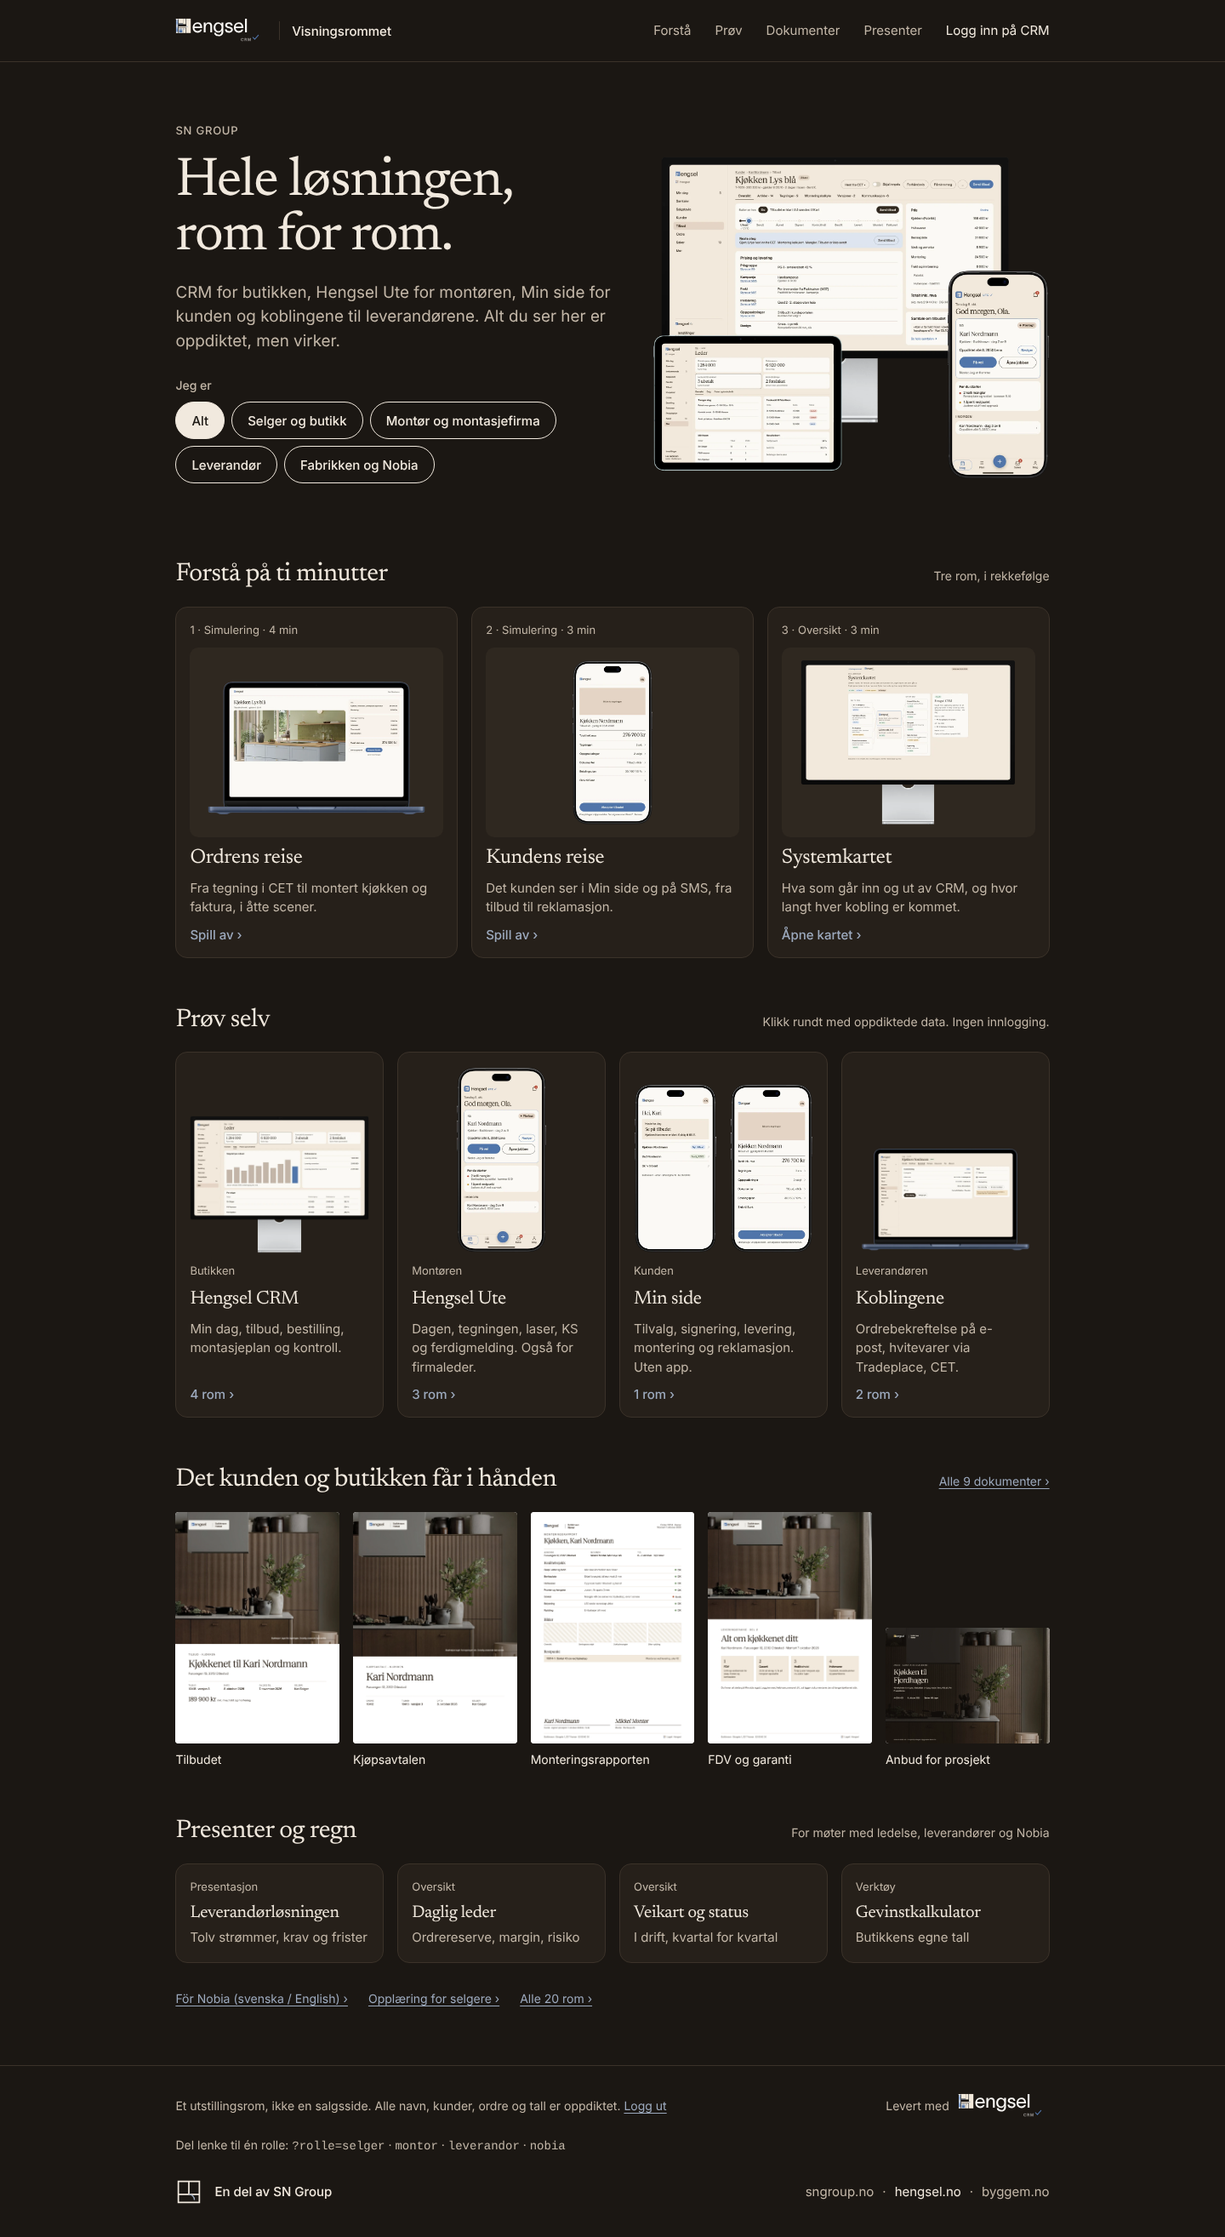
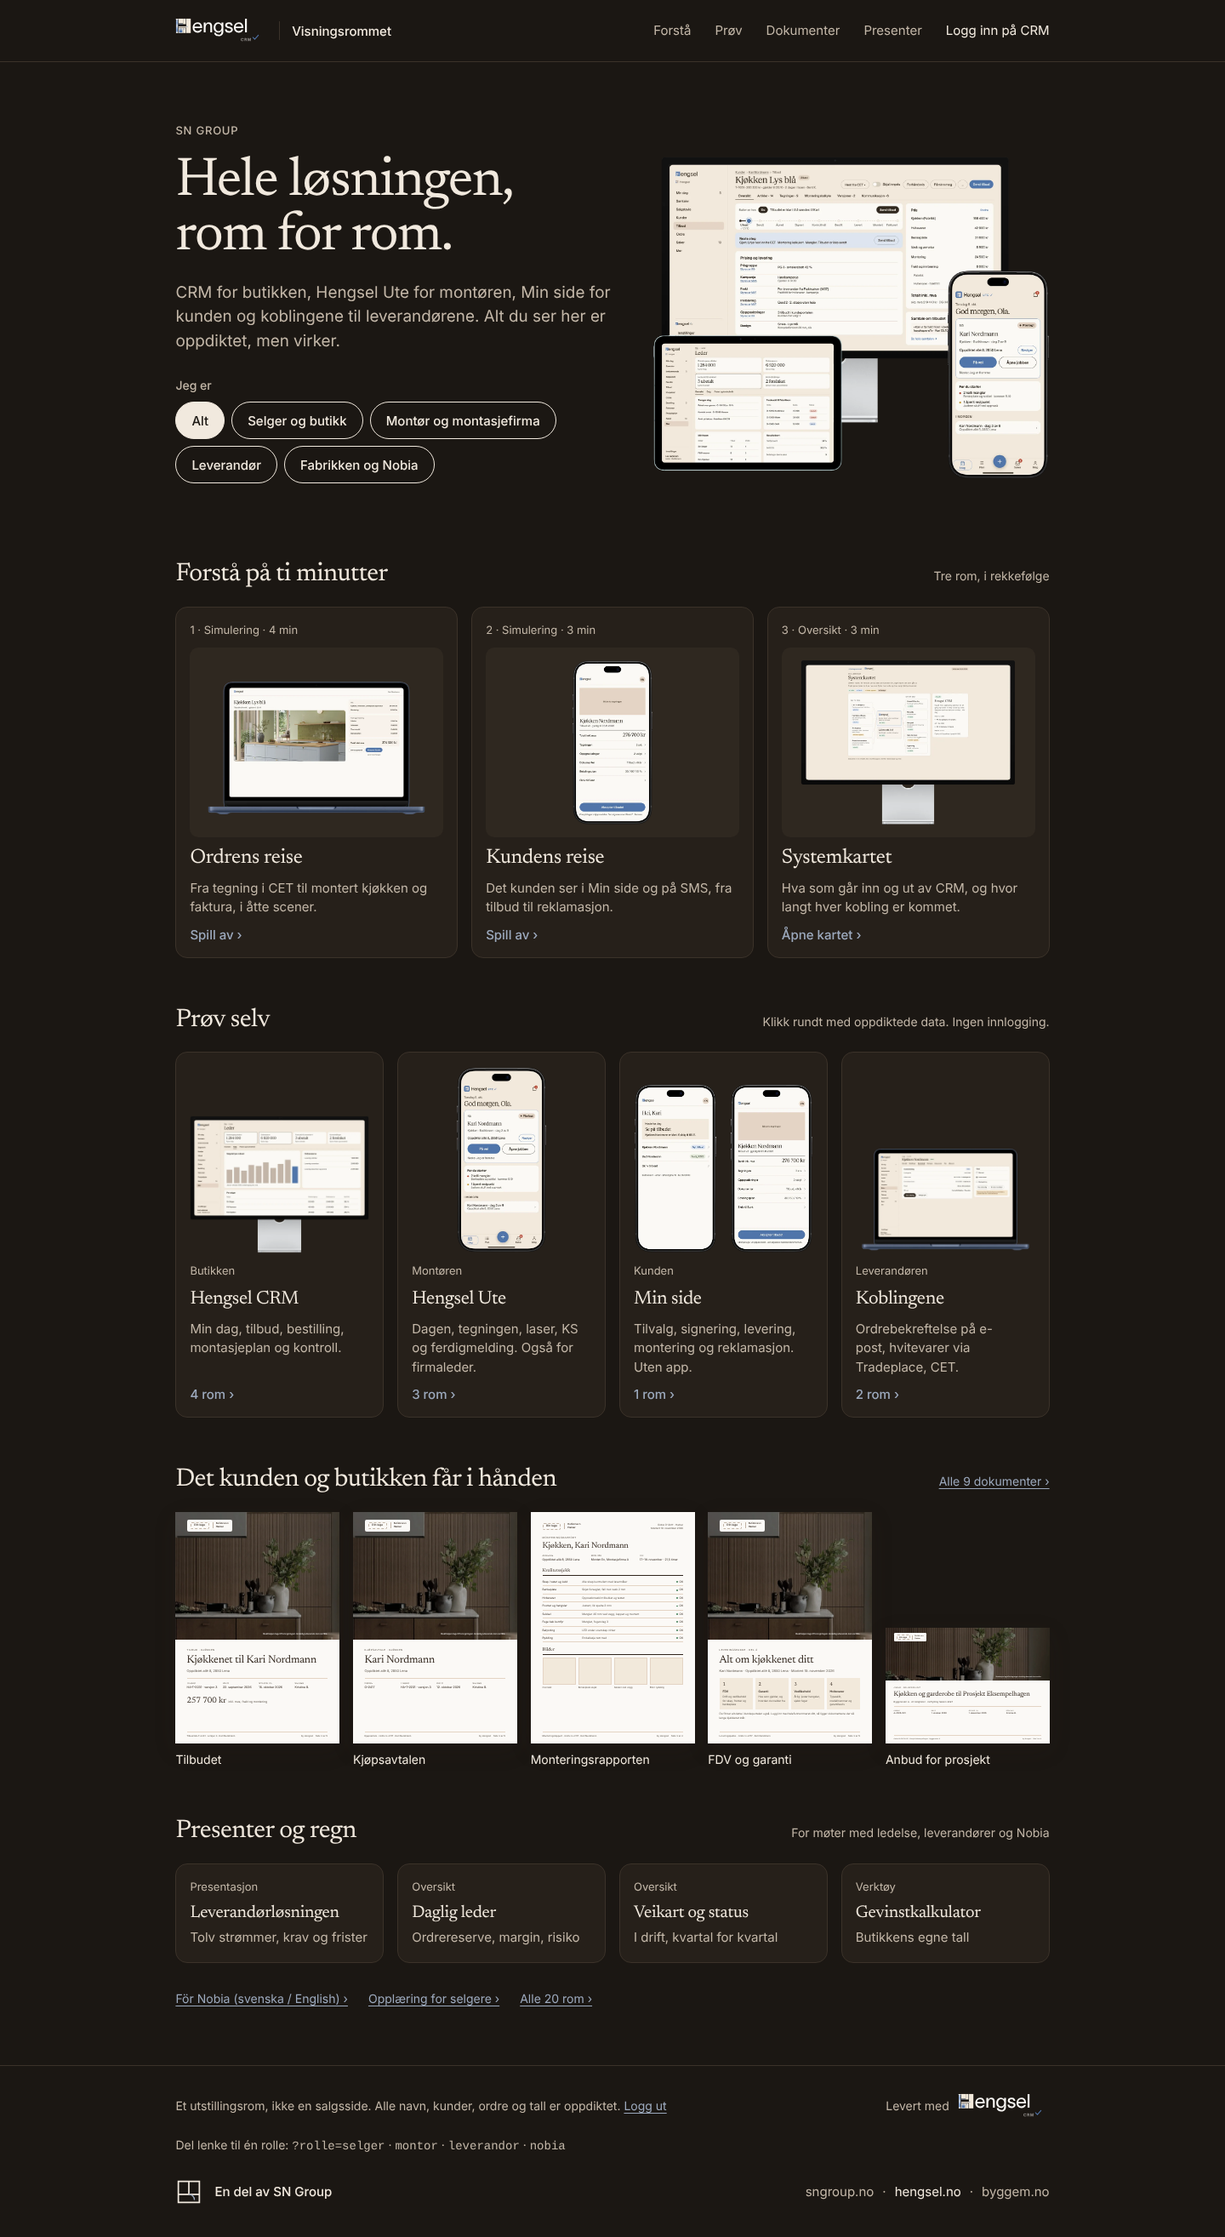
K-161: tester for dokumentdata, sjekker for bla/sveip/lysboks/kontrast/CLS, hidden-rettelse, dokumentasjon, skjermbilder
Claude-Session: https://claude.ai/code/session_01RrCZRhYJeFEH4kX3GLZixf

Changed region(s): [[0.125, 0.655, 0.875, 0.7798]]

diff --git a/packages/design/src/dokumenter/dokumentvisning.css b/packages/design/src/dokumenter/dokumentvisning.css
@@ -15,6 +15,7 @@
 .dv-fane:hover { border-color: var(--ink); }
 .dv-fane[aria-selected="true"] { background: var(--ink); border-color: var(--ink); color: var(--bg); }
 
+.dv-panel[hidden] { display: none; }
 .dv-panel { display: flex; flex-direction: column; gap: 28px; min-width: 0; }
 .dv-lages { background: var(--surface-highlight); border-radius: 14px; padding: 16px 18px; display: flex; flex-direction: column; gap: 10px; }
 .dv-steg { list-style: none; margin: 0; padding: 0; display: grid; grid-template-columns: repeat(auto-fit, minmax(150px, 1fr)); gap: 8px; }

diff --git a/docs/dokumentvisning.md b/docs/dokumentvisning.md
@@ -1,40 +1,48 @@
-# Dokumentvisning: gjenbruk i Visningsrommet (K-161)
+# Dokumentvisning: felles for hengsel.no og Visningsrommet (K-160, K-161)
 
-Visningen på hengsel.no/dokumenter er bygd for å kunne brukes en gang til. Dataene er atskilt fra visningen, og visningen tar dataene som parameter.
+Dokumentene vises på to steder: hengsel.no/dokumenter (Astro) og vis.hengsel.no/dokumenter (ren HTML, `sites/vis`). Begge leser **samme datafil**, så et dokument endres bare ett sted.
 
-## Filene (alle i `sites/hengsel/src/`)
+## Filene (`packages/design/src/dokumenter/`)
 
-| Fil | Hva | Avhengigheter |
+| Fil | Hva |
+|---|---|
+| `data.js` + `data.d.ts` | De ni dokumentene (`DOKUMENTER`), `LAGES_STEG`, `A4`, typene (`Dokument`, `DokSide`, `Blokk` …). Ren data, ingen Astro eller DOM. |
+| `lages.js` + `lages.d.ts` | «Slik lages det» per dokument i Visningsrommet: 3–5 steg (tittel, tekst, knappen som trykkes, skjermbilde fra CRM-designfilene), hva som skjer etterpå (PDF, e-post, SMS, signering, lagring) og lenker til rommene. |
+| `render.js` + `render.d.ts` | `renderA4Side(side, { fot, nr, total, ligg, forst })` gir HTML for én A4-side. Brukes av begge stedene. Alle tekster escapes. |
+| `a4-stil.js` + `.d.ts` | `a4DynamiskCss(dokumenter)`, `malKlasse`, `hhKlasse`: kolonnemaler og bildehøyder som klasser. |
+| `a4.css` | A4-papiret. Skalerer med bredden uten skript (container-enheter, `--u` = én designpiksel). Papiret er alltid lyst. |
+| `dokumentvisning.css` | Velger, stripe, bla-knapper, innholdsliste, lysboks. Trenger variablene `--bg --surface --surface-soft --surface-highlight --line --ink --muted --accent --f-display --f-body`. |
+| `dokumentvisning.js` | Faner, bla (knapper, ← →, sveip), innholdsliste, lysboks, `#id` i adressen (når `data-hash` står på `[data-dokvisning]`). Vanlig JavaScript. |
+
+Pakken eksporterer dem som `@sngroup/design/dokumenter/data`, `…/render`, `…/a4-stil`, `…/lages`, `…/a4.css`, `…/dokumentvisning.css` og `…/dokumentvisning`.
+
+## hengsel.no
+
+`sites/hengsel/src/content/dokumenter-data.ts` re-eksporterer `data.js`. `A4Side.astro` kaller `renderA4Side` (`set:html`), `Dokumentpanel.astro` og `Dokumentvisning.astro` lager panelene (første dokument i DOM, resten i `<template>`), og Astro bundler skriptet og CSS-en fra pakken.
+
+## Visningsrommet (`sites/vis`)
+
+`bygg.mjs` kopierer `a4.css`, `dokumentvisning.css` og `dokumentvisning.js` til `dist/assets/dokumenter/` og forsidebildet `dok-forside.webp` (fra `sites/hengsel/public/img`) til `dist/img/`. `sites/vis/dokumenter.mjs` lager HTML av de felles dataene og `bygg.mjs` setter den inn der markørene står:
+
+| Markør | Gir | Brukes i |
 |---|---|---|
-| `content/dokumenter-data.ts` | De ni dokumentene (`DOKUMENTER`), typene (`Dokument`, `DokSide`, `Blokk` …), `LAGES_STEG`, `A4` | Ingen. Ren TS, ingen Astro eller DOM. |
-| `components/dokumenter/a4-stil.ts` | `a4DynamiskCss(dokumenter)`, `malKlasse`, `hhKlasse` | Ren TS |
-| `components/dokumenter/A4Side.astro` | Én A4-side, stående eller liggende, alle sidetyper | Astro |
-| `components/dokumenter/Dokumentpanel.astro` | Ett dokument: «Slik lages det», arket, bla-knapper, innholdsliste | Astro |
-| `components/dokumenter/Dokumentvisning.astro` | Velger, paneler (første ferdig, resten i `<template>`), lysboks (`<dialog>`) | Astro |
-| `scripts/dokumentvisning.ts` | Faner, bla, innholdsliste, lysboks, fokusfelle | Ingen (vanlig TS) |
-| `styles/a4.css` | A4-papiret. Skalerer med bredden uten skript (container-enheter, `--u` = én designpiksel) | Ingen |
-| `styles/dokumentvisning.css` | Velger, stripe, bla-knapper, innholdsliste, lysboks | Variablene `--bg --surface --surface-soft --surface-highlight --line --ink --muted --accent --f-display --f-body` |
+| `<!--dokumentvisning-->` | Velger, ni dokumenter med ark og bla-knapper, «Slik lages det» | `src/dokumenter/index.html` |
+| `<!--a4-stil-->` | `<style>` med kolonnemaler og bildehøyder | alle sider som viser A4 |
+| `<!--a4-ark:id:side:Tittel-->` | Ett lite ark som lenke til `/dokumenter/#id` | forsiden |
 
-Forsidebildet er `public/img/dok-forside.webp` (1200 × 768), hentet fra `/img/dok-forside.webp`. Skriftene hentes fra `--a4-skrift` og `--a4-overskrift`, med «Inter Variable»/«Inter» og «Newsreader Variable»/«Newsreader» som reserve (Visningsrommet bruker «Inter» og «Newsreader», så det virker uten endring).
+Det finnes ingen dokumentbilder (`dok-*.webp` er fjernet). Romkortet `src/img/rom-dokumenter.webp` lages av `npm run rammer:vis` fra en gjengitt tilbudsforside (krever `npm run build -w sites/vis` først).
 
-## Dataene
+Lenker til et dokument: `/dokumenter/#tilbud`, `#kjopsavtale`, `#ob`, `#anbud`, `#montering`, `#punkt`, `#fdv`, `#plan`, `#faktura`.
 
-`DOKUMENTER` er en vanlig liste og kan serialiseres: `JSON.stringify(DOKUMENTER)` (typene er bare TS og forsvinner). Et dokument har `id`, `t`, `s`, `fot`, `lages` (fem tekster), `ligg` (liggende) og `sider`. En side har enten `forside`, `todelt` eller `blokker`; blokkene er en union på `type` (se `Blokk`). Under bygging kan andre byggetrinn importere filen direkte (`import { DOKUMENTER } from ".../dokumenter-data.ts"` via esbuild/tsx/Astro) eller lese en JSON-utgave. Teksten er oppdiktet eksempelinnhold og vises med «Eksempel»-merking; nytt innhold skal ikke nevne merkenavn.
+## Endre eller legge til et dokument
 
-## Slik brukes visningen
+1. Rediger `data.js` (side, blokk eller tekst). Begge stedene følger med ved neste bygg.
+2. Legg til `LAGES.<id>` i `lages.js` (3–5 steg, skjermbilder fra `sites/vis/src/skjermbilder`). `scripts/dokumenter.test.mjs` feiler om et dokument mangler «Slik lages det», om et skjermbilde ikke finnes, eller om et merkenavn dukker opp.
+3. Bruk nøytrale demonavn (Butikknavn, Kari Nordmann, Leverandør A). «Din logo» øverst og «by Hengsel» i bunnlinjen, aldri to Hengsel-logoer.
 
-I en Astro-side: `<Dokumentvisning dokumenter={DOKUMENTER} />` (eller et utvalg). Komponenten importerer selv CSS-en og laster skriptet (Astro bundler `<script>`). Siden må ha variablene over; i `sites/hengsel` kommer de fra `styles/hengsel.css` og `tokens.css`. CSP: ingen `style`-attributter eller innebygde skript brukes. Kolonnemalene i tabellene ligger i én `<style>` fra `a4DynamiskCss()` (hashes av `scripts/csp-hasher.mjs` i hengsel; Visningsrommet må tillate eller hashe den).
+## Tilgjengelighet og ytelse
 
-## Hva som må til for at `sites/vis` (ren HTML uten Astro) kan bruke den
-
-Markup lages av Astro-komponentene, så det trengs ett mellomledd. Valgene, enklest først:
-
-1. **Fragment fra hengsel-bygget.** Legg en Astro-side (eller endepunkt) i `sites/hengsel` som bare gir `<Dokumentvisning dokumenter={DOKUMENTER} />` som HTML-fragment (uten meny og bunn), og la `sites/vis/bygg.mjs` sette fragmentet inn der det står en markør (som den allerede gjør med `<!--hengsel-logo N-->`). Kopier `_astro/*.css` og `_astro/Dokumentvisning*.js` fra `sites/hengsel/dist` til `dist/` i vis og lenk dem. Bygg hengsel først (rekkefølgen i rot-skriptet).
-2. **Astro Container API** (`experimental_AstroContainer`) i et eget byggetrinn som rendrer `Dokumentvisning.astro` til en streng. Ikke prøvd.
-3. **Egen gjengiver i ren JS** over de samme dataene. Klassene i `a4.css` og `dokumentvisning.css` og `data-*`-attributtene i `scripts/dokumentvisning.ts` er kontrakten; skriptet og stilene kan brukes uendret. Mest arbeid (A4Side er ca. 150 linjer markup).
-
-Uansett: skriptet og de to CSS-filene kan gjenbrukes som de er (`esbuild --bundle --minify scripts/dokumentvisning.ts`), og Visningsrommets CSP må tillate egne skript og stil fra samme opprinnelse. Visningsrommets dokumentmaler (`sites/vis/src/dokumenter/*.webp`) er forbildet og kan beholdes som forhåndsbilder til de ni dokumentene.
-
-## Lysboksen (tilgjengelighet)
-
-`<dialog>` med `showModal()` (resten av siden er inert), egen fokusfelle, Esc lukker, ← og → blar, `aria-label` «Åpne siden i lysboksen», «Forrige side», «Neste side», «Lukk» og «Dokumenter» (fanelisten). Fokus går tilbake til knappen som åpnet den. På telefon (under 700 px) vises arket i lesbar størrelse og kan rulles, knappene ligger under.
+- Arket (`[data-ark]`) har `tabindex="0"`; ← og → blar når arket eller knappene har fokus. Sveip til sidene på berøringsskjerm (også i lysboksen). Teller «Side 2 av 6» (`aria-live`).
+- Lysboksen er en modal `<dialog>` (`showModal()`, inert bakgrunn), egen fokusfelle, Esc lukker, fokus går tilbake til knappen som åpnet den. På telefon (under 700 px) vises arket i lesbar størrelse og kan rulles.
+- Bare det første dokumentet ligger i DOM-en; de andre i `<template>`. Alle sider unntatt den viste er `hidden`, og forsidebildene er `loading="lazy"`. Bilder har `width` og `height` (CLS 0).
+- `scripts/skjermbilder-vis.mjs` sjekker bla med tastatur og sveip, lazy-lasting, bilder uten mål eller alt, lysboks, CLS og kontrast (4,5:1) på `/dokumenter/` på 390 og 1280 px, lys og mørk.

diff --git a/sites/vis/README.md b/sites/vis/README.md
@@ -36,13 +36,23 @@ Alle skjermbilder vises i Apples Product Bezels (`src/assets/rammer/*.webp`, gje
 | MacBook | `macbook.webp` (2400/1565) | 12.63 · 14.19 · 74.75 · 71.63 | 1 % / 1.4 % | 2408 × 1506 |
 
 - Rammene er minst 200 px høye, også på mobil (de faller ikke lenger bort). Tekst står ved siden av, ikke oppå. Flere enheter sammen i riktig størrelsesforhold (hero: telefonen er ca. 40 % av Studio Display-rammens høyde).
-- Romkort og flater på forsiden er ferdige bilder (`scripts/lib/rammer.mjs`): `npm run rammer:vis` (rom og flater med skjermbilder fra designfilene) og `npm run skjermbilder:vis` (rom uten: rommet selv i Studio Display). Kortbildet er 4:3 i `--soft` og viser hele enheten (3 kort i bredden på PC, 2 på iPad, 1 på mobil); flatene «Slik henger det sammen» er 2 i bredden. Dokumentene (`/dokumenter/`) er A4-ark uten ramme.
+- Romkort og flater på forsiden er ferdige bilder (`scripts/lib/rammer.mjs`): `npm run rammer:vis` (rom og flater med skjermbilder fra designfilene) og `npm run skjermbilder:vis` (rom uten: rommet selv i Studio Display). Kortbildet er 4:3 i `--soft` og viser hele enheten (3 kort i bredden på PC, 2 på iPad, 1 på mobil); flatene «Slik henger det sammen» er 2 i bredden. Dokumentene (`/dokumenter/`) er A4-ark uten ramme (gjengitt fra datafila, se «Dokumentene (K-161)»).
 - Pakke v3 (11.10, `delt/pakke-v3` på grenen `pakke-v3`) erstatter v1 og v2: `pc/` (2880 × 1800, brukes i både Studio Display og MacBook, så MacBook-bildene har ikke lenger prefikset `mb-`), `ios/` (iPhone 1206 × 2622 uten statuslinje, `ute-typeskilt` er 1170 × 2532) og `crm-ipad-*` (2360 × 1640, 1,44:1). Bildene som ikke er med i v3 (`crm-tilbud-kunde`, `crm-ordre-kontrollmal`, `crm-moduler`, `crm-mal-skisser`, `portal-*`, `crm-tlf-*`, `ute-ipad-*`) er fra v2 eller forrige eksport. Pakke v4 (11.10, `delt/pakke-v4`) erstatter `crm-tilbud`, `crm-tilbud-kunde`, `crm-ordre-kontrollmal` og `portal-tilbud` og legger til `kundeportal-pc`, `portal-levering` (K10), `portal-montering` (K12), `portal-fdv` (K14) og `ute-ipad-bildeverktoy` (2360 × 1640). De gamle portalbildene (`portal-*` på PC og `portal-tlf-*`) og `kundeportal-k04` (= `portal-tilbud`) er fjernet, og `crm-montasje` (v3, viser kontrollmål) er ikke brukt. Pakke v5 (11.10, `delt/pakke-v5`) legger til `crm-montasje` (Mer › Montasje › Montasjeplan, uke 42), `ute-i-dag` og `ute-ks` (Kari Nordmann og Ola, hele logoen, uten den buede streken). Det gamle v3-bildet av `crm-montasje` (kontrollmål) er erstattet. Andre ute-bilder fra fil 36 (`ute-jobb-under`, `ute-laser`, `ute-punkter`, `ute-punktkort`, `ute-avvik`, `ute-ferdig`, `ute-ks-kamera`, `ute-typeskilt`) kan ha de gamle navnene. Pakke v6 (11.10, `delt/pakke-v6`) gir egne bilder til rammene: `display/` (2560 × 1440, 16:9) til Studio Display (`ipad13/` er for iPad Air 13″ og brukes ikke). `ipad-liggende.png` er en iPad Air 11″-ramme (hull 2160 × 1502, 1,44:1), så iPad-bildene er de på 2360 × 1640: `crm-ipad-*` fra v3 og `ute-ipad-bildeverktoy` fra v4. `display/` erstatter pc/-bildene med samme navn i Studio Display. `pc/` (16:10) gjelder bare MacBook; de to MacBook-bildene som brukes (forside, Leverandøren) ligger som `mb-crm-ordre-kontrollmal` og `mb-crm-tilbud-kunde`. Alle bildene fyller skjermhullet med `object-fit:cover; object-position:top`, uten annen tilpasning. Uten v6-versjon (16:10 i Studio Display, bunnen beskjæres): `crm-moduler` og `crm-mal-skisser`. Pakke v7 (11.10, `delt/pakke-v7`) erstatter alle `ute-*` fra v3 (iPhone 1206 × 2622, Kari Nordmann og Ola): `ute-jobb-under`, `ute-laser`, `ute-ks-kamera`, `ute-ks` (MV16.1, rettet), `ute-avvik`, `ute-punkter`, `ute-punktkort`, `ute-ferdig` og `ute-typeskilt`. `ute-i-dag` er fortsatt v5 (ikke med i v7). Pakke v8 (11.10, `delt/pakke-v8`) tok `crm-mal-skisser` (fil 32 C01) og `crm-moduler` (fil 50 I31) på nytt: `display/` (16:9) til Studio Display ligger som `crm-mal-skisser` og `crm-moduler`, `pc/` (16:10) til MacBook som `mb-crm-mal-skisser` og `mb-crm-moduler` (ikke i bruk ennå).
 - Ikke brukt: `iphone-aapen` (én skjerm 7:10, venter på egne bilder) og de nye rammene `iphone-18-liggende`, `iphone`, `iphone-liggende`, `iphone-aapen-liggende` og `ipad-staaende` (ingen bilder til dem). `kundeportal-k03/k06/k08` brukes i Kundens reise, Min side, romkort og flater.
 
 - `ute-*`-bildene kommer fra `ute-vis.zip` (10.10, fra designfilene, uten merkenavn): iPhone 780 × 1688 (390 × 844 i 2×) og `ute-ipad-bildeverktoy` 2360 × 1640 (1180 × 820). De har egen statuslinje (09.41), dynamic island og hjemindikator, så rammene (`.tlf.hel`, iPad) legger ikke på noen: telefonrammen gir plass til hele 390 × 844-skjermen. CRM-bildene fra `crm-sju-vis.zip` (1440 bred, 2×): `crm-min-dag`, `crm-bestilling`, `crm-montasje`, `crm-etterkalkyle`, `crm-salgstavla`, `crm-saker`, `crm-resultater` (2880 × 1800) og `crm-min-dag-800` (Min dag i iPad-ramme; den tegnede kanten på 24 px er beskåret bort, 2360 × 1640, brukt som første iPad-bilde i Prøv CRM). `crm-leder-oversikt` og `crm-leder-start` er slettet (erstattet av `crm-resultater` og `crm-salgstavla`).
 - Rom uten CRM_v4-skjermbilde (Systemkartet, Veikart, Dokumentene, Gevinstkalkulator, Leverandørløsningen, Opplæring, /sv/, og foreløpig Prøv som leverandør, Ordre- og fakturakontroll, Montasjeplan, Prosjektsalg, Hvitevarer og Daglig leder) bruker bilde av rommet selv på romkortet (`src/img/rom-*.webp`, lages av `npm run skjermbilder:vis`). De seks siste får CRM_v4-bilder når skjermene er eksportert.
 - Logoen på siden er `hengsel-crm-logo-lys/-mork.svg` (PR 10.10). Alle CRM-bildene har Hengsel-logoen i sidemenyen. Navnene sier hva bildet viser. Den siste bildepakken 10.10 (Hengsel.no.zip, `img/vis`) er lagt inn slik: `crm-mal-skisser` ← `mal-skisser`, `crm-tilbud` ← `tilbud-liste` (tilbudslista), `crm-ipad-min-dag` ← `ipad-min-dag`, `crm-ipad-montasje` ← `ipad-montasje`, `crm-ipad-tilbud` ← `ipad-tilbud`, `crm-ipad-ordre` ← `ipad-ordre`, `crm-tlf-min-dag` ← `tlf-min-dag`, `crm-tlf-kundekort` ← `tlf-kundekort`, `crm-tlf-ordre` ← `tlf-ordre`. Mål: PC 2876 × 1796 (2×), iPad 1180 × 820 (1×), telefon 780 × 1600 (2×).
+
+## Dokumentene (K-161, 11.10)
+
+`/dokumenter/` viser de samme ni dokumentene som hengsel.no/dokumenter, hele (forside, alle sider, vilkår, signatur, vedlegg), med bla-knapper, tastatur (← →), sveip på mobil, sidetall og lysboks. Data, A4-markup, CSS og skript ligger i `packages/design/src/dokumenter/` og deles med hengsel.no; `sites/vis/dokumenter.mjs` og `bygg.mjs` lager HTML ved bygging (markørene `<!--dokumentvisning-->`, `<!--a4-stil-->`, `<!--a4-ark:id:side:Tittel-->`). Se `docs/dokumentvisning.md`.
+
+- **Slik lages det** (`packages/design/src/dokumenter/lages.js`): 3–5 steg per dokument med skjermbilde fra CRM-designfilene i Studio Display-ramme (aldri kjørende demo), knappen som trykkes og hva som skjer etterpå (PDF, e-post/SMS, signering, lagring), og lenker til rommene.
+- Nøytrale demonavn (Butikknavn, Kari Nordmann, Leverandør A), merket «Eksempel». «Din logo» øverst og «by Hengsel» i bunnlinjen; aldri to Hengsel-logoer. Papiret er alltid lyst; sidene rundt følger lys/mørk modus.
+- Forsiden viser første side av fem dokumenter som ekte A4-ark (samme gjengiver), ikke bilder. `dok-*.webp` er fjernet.
+- Lenker til dokumentene: Ordrens reise scene 2 og 3 → `#kjopsavtale`, Montørappen → `#montering`, Kundens Min side → `#fdv`.
+- Stemningsbildet på forsidene er `dok-forside.webp` fra hengsel.no (kopieres av `bygg.mjs`).
 
 ## Avvik funnet 10.10.2026 (skjermbilder av vis.hengsel.no) – rett disse først
 
